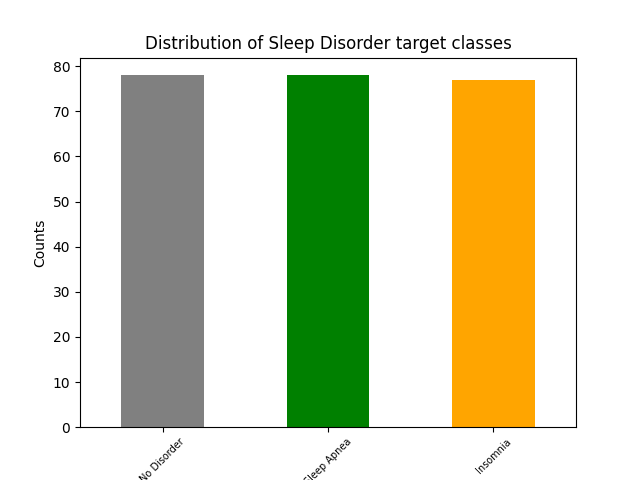
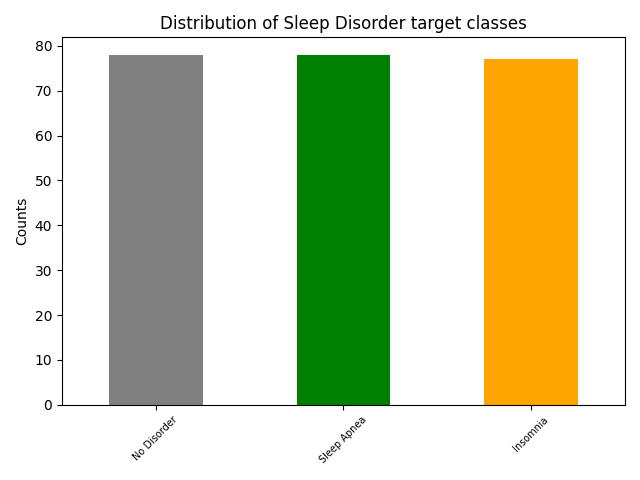
Adjust images

diff --git a/data_exploration.py b/data_exploration.py
@@ -35,6 +35,7 @@ if __name__ == '__main__':
                                 )
 
     plt.xticks(rotation=45, fontsize=7)
+    plt.tight_layout()
     save_plot_as_image(folder='images', image_name='classes_unbalanced')
     plt.show()
 
@@ -54,6 +55,7 @@ if __name__ == '__main__':
                                                                    )
 
     plt.xticks(rotation=45, fontsize=7)
+    plt.tight_layout()
     save_plot_as_image(folder='images', image_name='classes_balanced')
     plt.show()
 
